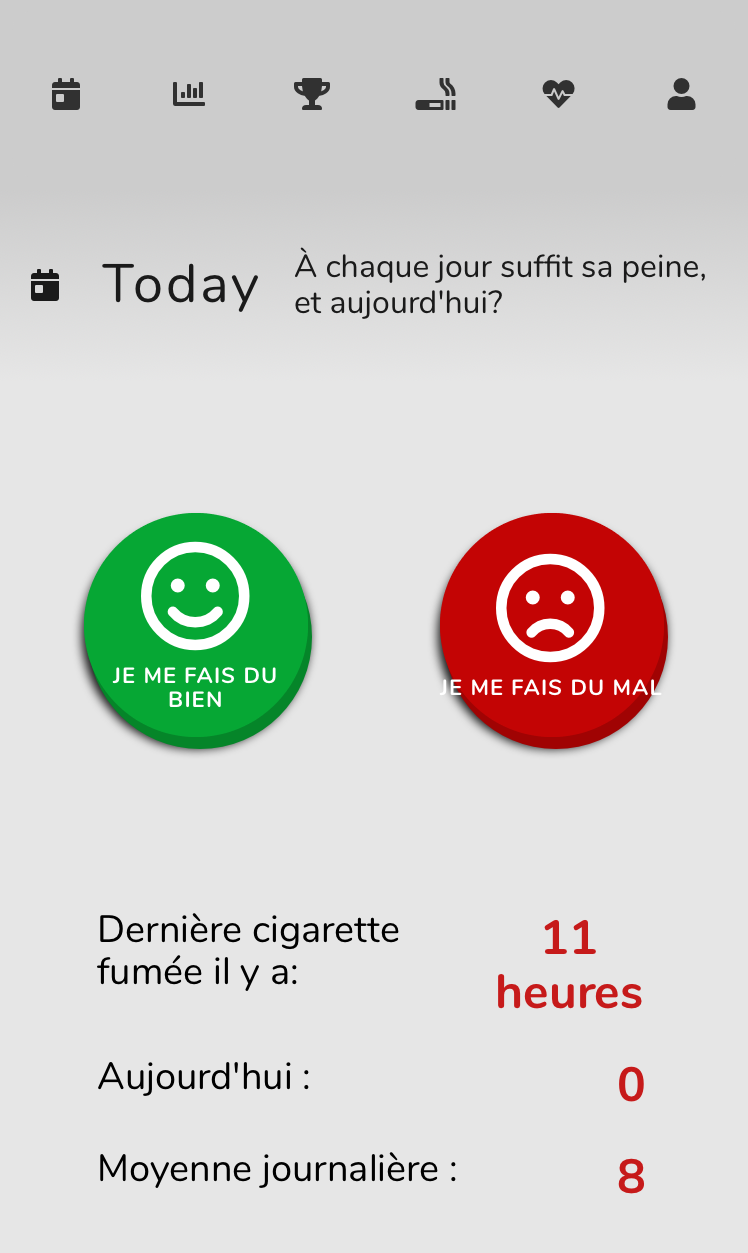
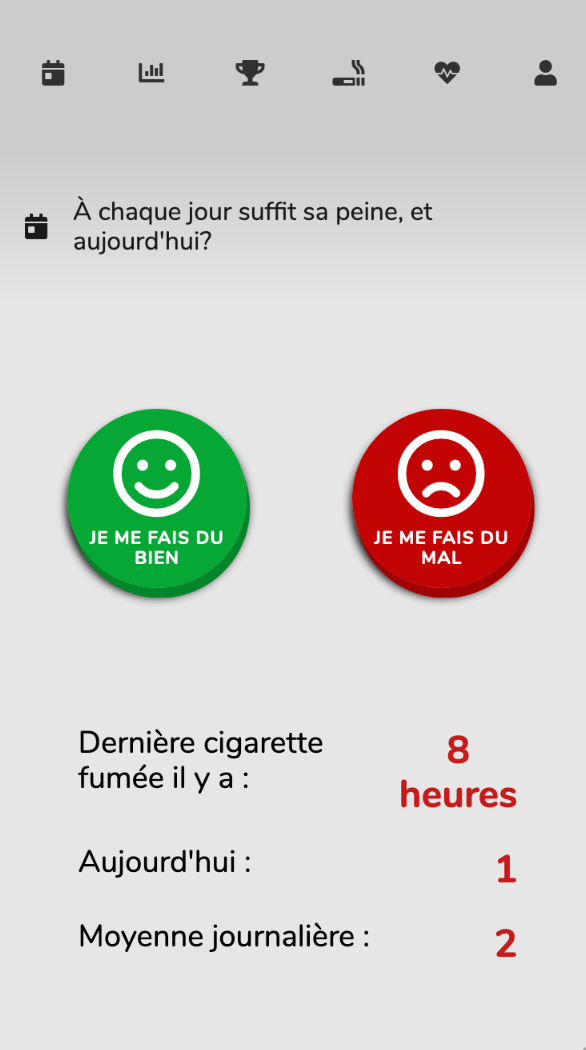
screenshot app

diff --git a/QuitSoonApp/templates/QuitSoonApp/today.html b/QuitSoonApp/templates/QuitSoonApp/today.html
@@ -11,7 +11,6 @@
 <div class="page-heading">
   <i class="fas fa-calendar-day"></i>
   <span>
-  <h1>Today</h1>
   <h2>À chaque jour suffit sa peine, et aujourd'hui?</h2>
   </span>
 

diff --git a/quit_soon_project/settings/__init__.py b/quit_soon_project/settings/__init__.py
@@ -53,7 +53,7 @@ INSTALLED_APPS = [
     'django.contrib.messages',
     'django.contrib.staticfiles',
     'django_nose',
-    'debug_toolbar',
+    # 'debug_toolbar',
     'django.contrib.postgres',
     'channels',
     'channels_redis',
@@ -70,7 +70,7 @@ MIDDLEWARE = [
     'django.contrib.auth.middleware.AuthenticationMiddleware',
     'django.contrib.messages.middleware.MessageMiddleware',
     'django.middleware.clickjacking.XFrameOptionsMiddleware',
-    'debug_toolbar.middleware.DebugToolbarMiddleware',
+    # 'debug_toolbar.middleware.DebugToolbarMiddleware',
     'django.middleware.locale.LocaleMiddleware',
     'quit_soon_project.middleware.access_requirement_middleware.AccessRequirementMiddleware',
     'tz_detect.middleware.TimezoneMiddleware',
